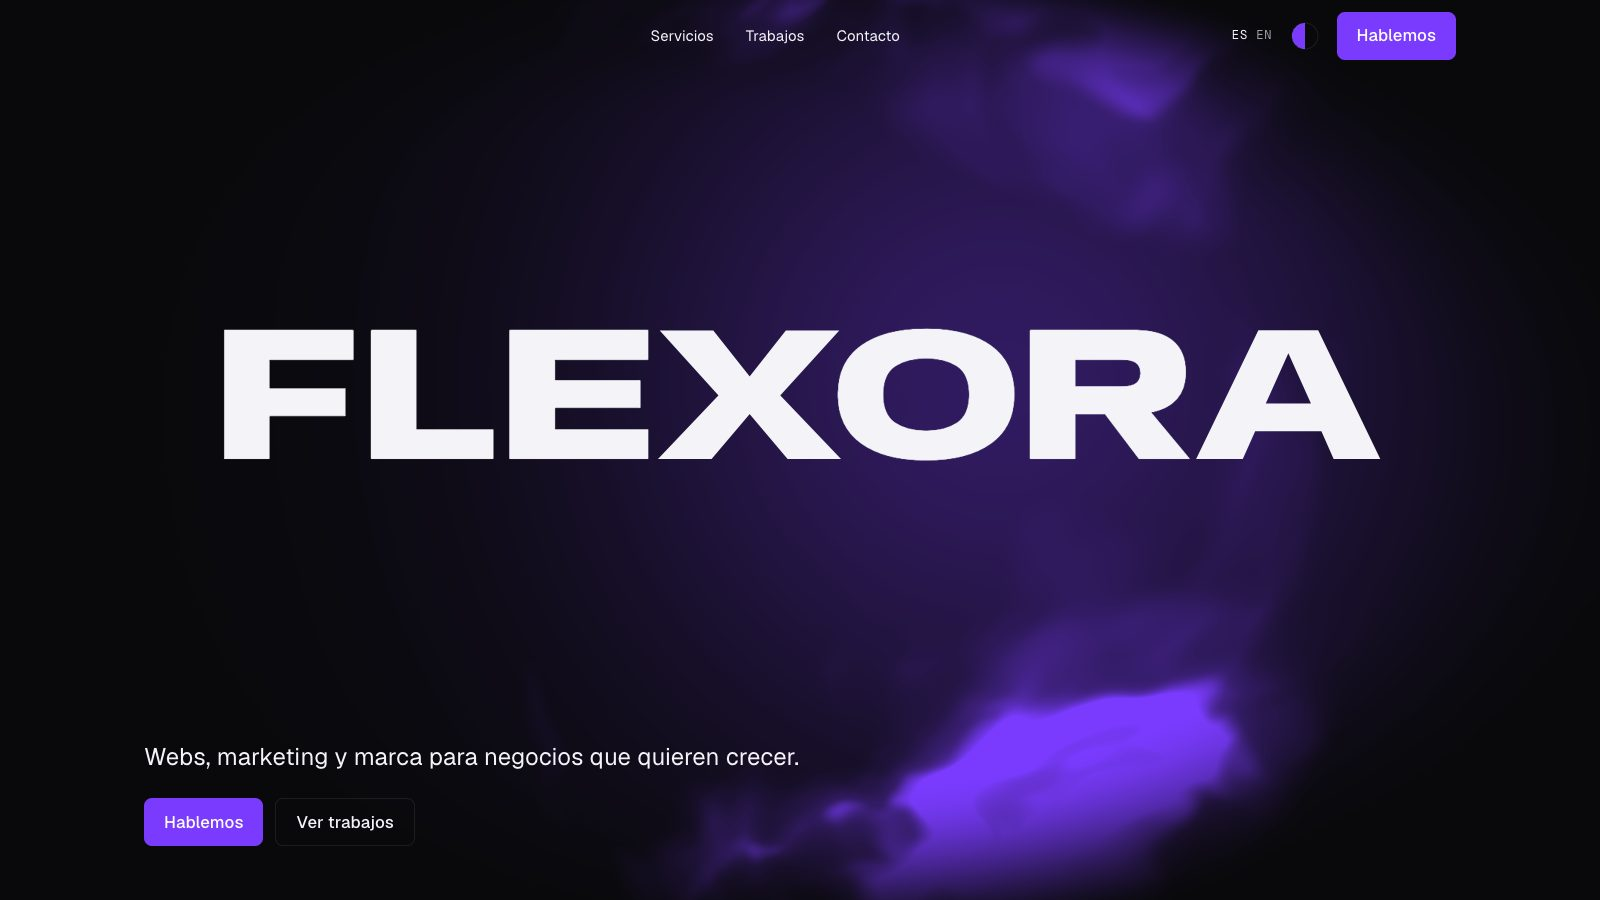
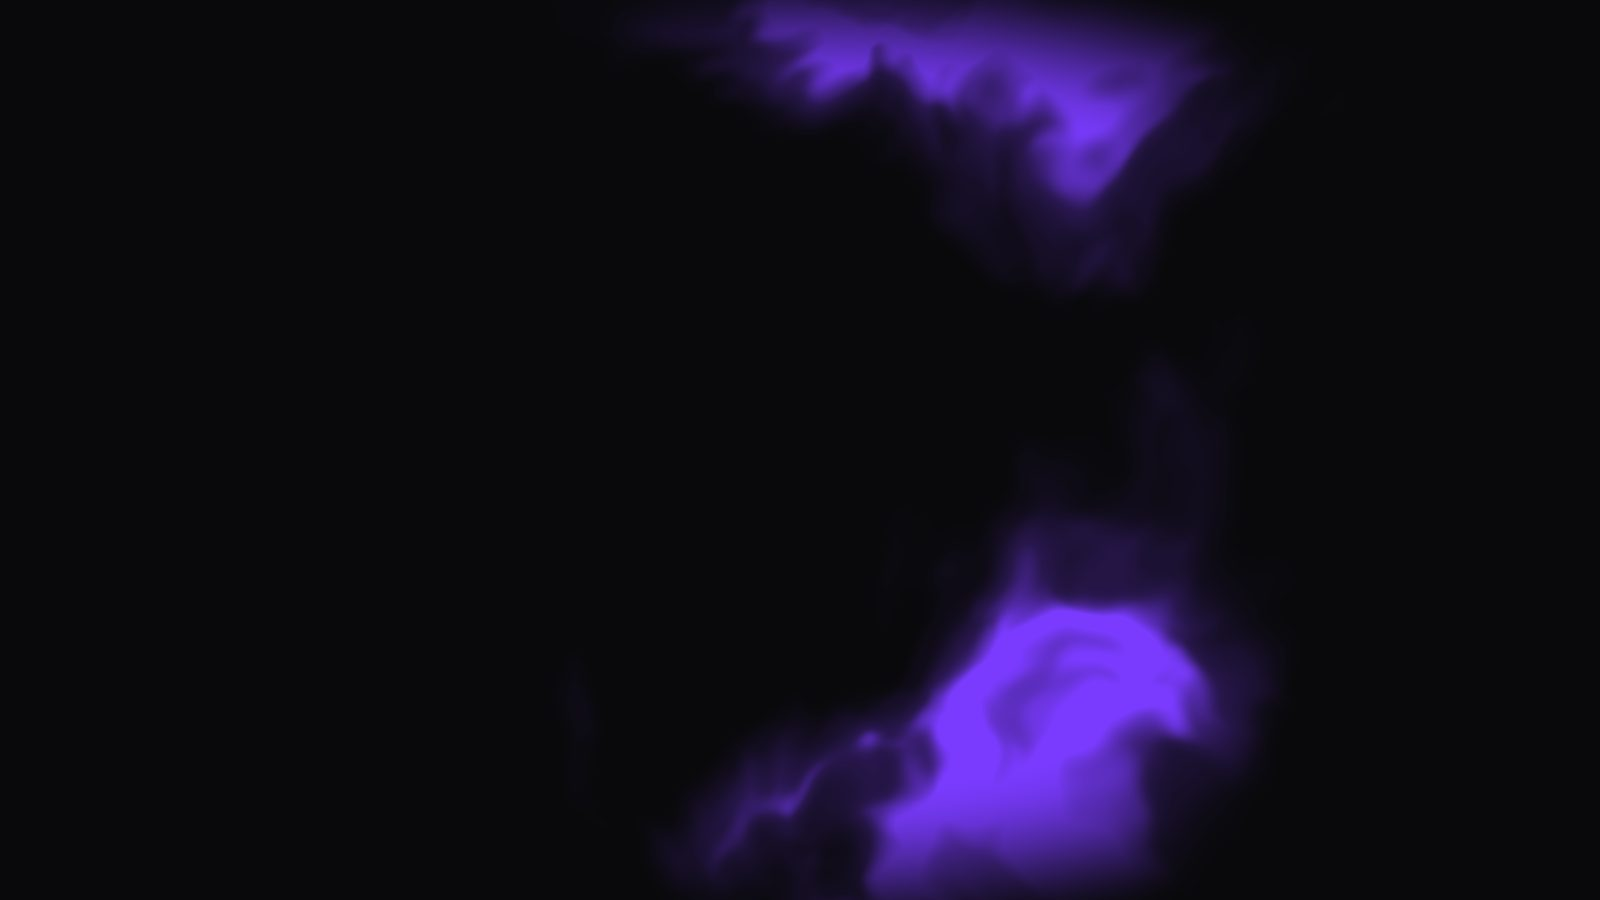
fix: test de tema fija colorScheme y captura del fallback oculta la UI superpuesta

diff --git a/e2e/theme.spec.ts b/e2e/theme.spec.ts
@@ -1,13 +1,16 @@
 import { expect, test } from "@playwright/test";
 
-test("el switch cambia el tema y persiste tras recargar", async ({ page }) => {
-  await page.goto("/es");
-  const html = page.locator("html");
-  await expect(html).toHaveAttribute("data-theme", "dark");
-  await page.locator("[data-theme-switch]").click();
-  await expect(html).toHaveAttribute("data-theme", "light");
-  await page.reload();
-  await expect(html).toHaveAttribute("data-theme", "light");
+test.describe(() => {
+  test.use({ colorScheme: "dark" });
+  test("el switch cambia el tema y persiste tras recargar", async ({ page }) => {
+    await page.goto("/es");
+    const html = page.locator("html");
+    await expect(html).toHaveAttribute("data-theme", "dark");
+    await page.locator("[data-theme-switch]").click();
+    await expect(html).toHaveAttribute("data-theme", "light");
+    await page.reload();
+    await expect(html).toHaveAttribute("data-theme", "light");
+  });
 });
 
 test("sin elección guardada respeta el sistema", async ({ browser }) => {
